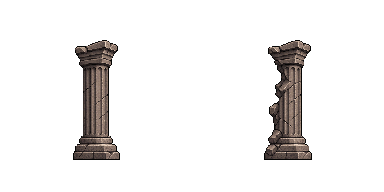
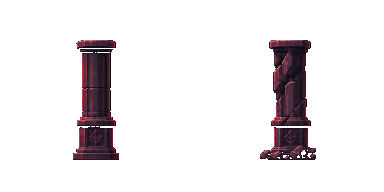
feat: integrate Arakus throne room presentation (PR #19 required)

Changed region(s): [[0.6562, 0.1875, 0.8438, 0.8438], [0.1875, 0.1875, 0.3125, 0.8438]]

diff --git a/Tests/verify-arakus-room-integration.py b/Tests/verify-arakus-room-integration.py
@@ -1,0 +1,54 @@
+"""Offline asset/contracts checks. Does not launch Unity, load DB config, or touch saves."""
+from pathlib import Path
+from PIL import Image,ImageChops,ImageFilter
+import subprocess,json,hashlib,sys,importlib.util,argparse
+sys.dont_write_bytecode=True
+ROOT=Path(__file__).resolve().parents[1]
+p=argparse.ArgumentParser();p.add_argument('--output',type=Path,required=True);args=p.parse_args();args.output.mkdir(parents=True,exist_ok=True)
+ART=ROOT/'Assets/StreamingAssets/Art/ArakusRoom';RES=ROOT/'Assets/Resources/ArakusV1'
+checks=[]
+def check(name,value):
+ checks.append({'name':name,'pass':bool(value)})
+ if not value: print('FAIL',name)
+def original(path):return subprocess.check_output(['git','show','HEAD:'+path],cwd=ROOT)
+sheet=Image.open(RES/'Pillar.png').convert('RGBA');rim=Image.open(RES/'Pillar_Outline.png').convert('RGBA')
+check('sheet_384x192',sheet.size==(384,192));check('rim_dimensions',rim.size==sheet.size)
+check('original_pillar_meta_and_GUID_unchanged',(RES/'Pillar.png.meta').read_bytes()==original('Assets/Resources/ArakusV1/Pillar.png.meta'))
+for i in range(2):
+ a=sheet.crop((192*i,0,192*(i+1),192)).getchannel('A');r=rim.crop((192*i,0,192*(i+1),192)).getchannel('A')
+ check(f'frame_{i}_foot_baseline',a.getbbox()[3]==160)
+ check(f'frame_{i}_height',a.getbbox()[3]-a.getbbox()[1]==120)
+ check(f'frame_{i}_one_pixel_outer_rim',r.tobytes()==ImageChops.subtract(a.filter(ImageFilter.MaxFilter(3)),a).tobytes())
+for f in ['WorldArtist.cs','ArakusVisuals.cs']:check(f+'_meta_unchanged',(ROOT/'Assets/Scripts'/f'{f}.meta').read_bytes()==original('Assets/Scripts/'+f+'.meta'))
+protected=['Assets/Scripts/BossPatternSystem.cs','Assets/Scripts/TowerGame.cs','Assets/Scripts/BossCombat.cs','Assets/Scripts/GameData.cs','Assets/Scripts/GameServices.cs','Assets/Scripts/SaveStore.cs','Assets/Scripts/CloudSync.cs','Assets/Scripts/ActorView.cs','Assets/Scripts/ScenePresentation.cs','Assets/Scenes','Assets/Prefabs','Assets/Data','ProjectSettings','Assets/StreamingAssets/Art/Castle']
+check('combat_DDA_DB_input_camera_scene_prefab_settings_unchanged',subprocess.run(['git','diff','--quiet','HEAD','--',*protected],cwd=ROOT).returncode==0)
+world=(ROOT/'Assets/Scripts/WorldArtist.cs').read_text();visual=(ROOT/'Assets/Scripts/ArakusVisuals.cs').read_text()
+check('battle_result_only_gate','bool fight=g.mode==ScreenMode.Battle||g.mode==ScreenMode.Result;' in world and 'throneRoom=fight&&g.bossIndex==0&&DrawThroneRoom()' in world)
+check('legacy_world_has_fallback','if(!throneRoom)' in world and 'if(room==null)return false;' in world)
+check('fade_kept_both_sides',all('clock-pillar'+s+'At<.6f' in visual and '1-(clock-pillar'+s+'At)/.6f' in visual for s in ['Left','Right']))
+check('glow_charge_kind_only','g.current.kind==AttackKind.Dash' in visual)
+check('glow_behind_body','alpha*(charging?.55f:.25f)),-31)' in visual)
+bg=Image.open(ART/'Arakus_Throne_Background_Game.png').convert('RGBA');raw=Image.open(ART/'Arakus_Throne_Background_16x9.png').convert('RGBA')
+check('background_dimensions',raw.size==bg.size==(1248,702))
+# Only the two authored post rectangles may differ.
+difference=ImageChops.difference(raw.convert('RGB'),bg.convert('RGB'))
+for box in [(430,453,511,608),(791,453,870,608)]:difference.paste((0,0,0),box)
+check('background_edits_confined_to_baked_posts',difference.getbbox() is None)
+# Offline camera projection, explicitly not Unity rendering or a shader simulation.
+spec=importlib.util.spec_from_file_location('roomart',ROOT/'Docs/Art/ArakusRoomConcept/create_assets.py');helper=importlib.util.module_from_spec(spec);spec.loader.exec_module(helper)
+for width,height in [(640,360),(480,360),(840,360)]:
+ aspect=width/height;ortho=max(8.2,14.3/aspect);ppu=height/(2*ortho);vw=2*ortho*aspect
+ check(f'{width}x{height}_whole_room_width_visible',vw>=26.5)
+ check(f'{width}x{height}_whole_room_top_visible',608*26.5/1248<=5+ortho)
+ im=Image.new('RGBA',(width,height),(9,13,19,255));world=lambda x,y:(width/2+x*ppu,height/2+(5-y)*ppu)
+ def paste(image,x,y,ww,hh):
+  tile=image.resize((round(ww*ppu),round(hh*ppu)),Image.Resampling.NEAREST);cx,cy=world(x,y);im.alpha_composite(tile,(round(cx-tile.width/2),round(cy-tile.height/2)))
+ unit=26.5/1248;bottom=(608-702)*unit;strip=raw.crop((0,640,1248,702))
+ paste(bg,0,(608-351)*unit,26.5,702*unit)
+ for i in range(12):paste(strip,0,bottom-(i+.5)*62*unit,26.5,62*unit)
+ for x in [-4,4]:
+  size=round(192*ppu/40);fr=sheet.crop((0,0,192,192)).resize((size,size),Image.Resampling.NEAREST);px,py=world(x,0);im.alpha_composite(fr,(round(px-size/2),round(py-160*size/192)))
+ helper.actor(im,world,ppu,'player');helper.actor(im,world,ppu,'boss')
+ im.resize((width*2,height*2),Image.Resampling.NEAREST).save(args.output/f'offline_{width}x{height}.png')
+report={'passed':sum(c['pass'] for c in checks),'failed':sum(not c['pass'] for c in checks),'checks':checks,'not_verified':['Unity compilation/rendering','real combat visuals and HUD','Windows build'],'note':'Source/asset checks and offline previews only; no DB connection.'}
+(args.output/'resource-checks.json').write_text(json.dumps(report,indent=2));print(report['passed'],'PASS',report['failed'],'FAIL');sys.exit(bool(report['failed']))

diff --git a/Assets/Scripts/WorldArtist.cs b/Assets/Scripts/WorldArtist.cs
@@ -58,6 +58,10 @@ namespace ReversalTower
 #endif
             cursor=0;bool fight=g.mode==ScreenMode.Battle||g.mode==ScreenMode.Result;float time=g.realClock;
             Rect(0,5,70,40,Palette.Ink);
+            Color accent=g.bossIndex==4?Palette.Purple:g.bossIndex==1?Palette.Teal:Palette.Gold;
+            bool throneRoom=fight&&g.bossIndex==0&&DrawThroneRoom();
+            if(!throneRoom)
+            {
             Disc(4,7.5f,19,19,new Color(.055f,.09f,.125f));Disc(4,7.5f,14,14,new Color(.075f,.12f,.15f));
             // Repeated arches, a broken celestial dial, and a deep lower vault.
             for(int i=-3;i<=3;i++)
@@ -72,7 +76,6 @@ namespace ReversalTower
             var pillars=ExternalAssets.Picture("Art/Castle/parallaxBG-interior2.png");
             if(pillars!=null)for(int i=-1;i<=1;i++)Shape(pillars,i*11.2f,6.7f,11.2f,14,new Color(.65f,.7f,.8f,.75f));
             if(castle!=null)for(int i=-1;i<=1;i++)Shape(castle,i*14,7,14,14,new Color(.8f,.85f,.95f,.75f));
-            Color accent=g.bossIndex==4?Palette.Purple:g.bossIndex==1?Palette.Teal:Palette.Gold;
             for(int i=0;i<48;i++)
             {
                 float a=i*Mathf.PI*2/48,rad=3.3f;
@@ -88,6 +91,7 @@ namespace ReversalTower
             for(int i=-15;i<15;i++){Rect(i*1.1f,-.45f,.018f,.7f,new Color(.07f,.10f,.13f));Rect(i*1.7f,-.15f,.7f,.018f,Palette.Alpha(accent,.16f));}
             var floor=ExternalAssets.Picture("Art/Castle/twilight-tiles.png",0,240,48,16);
             if(floor!=null)for(int i=-5;i<=5;i++)Shape(floor,i*3,-.48f,3,1,Palette.White);
+            }
             if(fight)
             {
                 if(!spriteArakus){if(g.pillarLeft)Pillar(-4);if(g.pillarRight)Pillar(4);}
@@ -124,8 +128,23 @@ namespace ReversalTower
             }
             foreach(var m in g.motes)Rect(m.pos.x,m.pos.y,m.size,m.size,Palette.Alpha(m.color,Mathf.Clamp01(m.life*3)),time*300);
             // Low drifting foreground mist.
-            for(int i=0;i<6;i++)Disc(-15+i*6+Mathf.Sin(time*.07f+i)*2,-.6f,12,.55f,new Color(.12f,.22f,.25f,.12f));
+            if(!throneRoom)for(int i=0;i<6;i++)Disc(-15+i*6+Mathf.Sin(time*.07f+i)*2,-.6f,12,.55f,new Color(.12f,.22f,.25f,.12f));
             for(int i=cursor;i<pool.Count;i++)pool[i].gameObject.SetActive(false);
+        }
+        bool DrawThroneRoom()
+        {
+            const string path="Art/ArakusRoom/Arakus_Throne_Background_Game.png";
+            var room=ExternalAssets.Picture(path);if(room==null)return false;
+            // Keep the whole composition inside the existing minimum 28.6m camera width.
+            // Authored walk line is source row 608. Camera and all gameplay coordinates stay unchanged.
+            const float width=26.5f,unit=width/1248f,groundRow=608f;
+            float centerY=(groundRow-351f)*unit,bottom=(groundRow-702f)*unit;
+            Shape(room,0,centerY,width,width,Color.white);
+            // Extend only the lower masonry for taller views; never stretch/crop the throne.
+            var lower=ExternalAssets.Picture(path,0,0,1248,62);
+            float stripHeight=62*unit;
+            for(int i=0;i<12;i++)Shape(lower,0,bottom-(i+.5f)*stripHeight,width,width,Color.white);
+            return true;
         }
         void Pillar(float x)
         {Rect(x,.85f,.65f,1.7f,Palette.Stone);Rect(x,1.75f,.9f,.18f,Palette.Slate);Rect(x,.15f,.9f,.3f,Palette.Slate);Rect(x-.18f,.95f,.07f,1.3f,Palette.Alpha(Palette.Gold,.5f));}

diff --git a/Assets/Scripts/ArakusVisuals.cs b/Assets/Scripts/ArakusVisuals.cs
@@ -99,6 +99,13 @@ namespace ReversalTower
             r.sortingLayerID=owner.body.sortingLayerID;r.sortingOrder=owner.body.sortingOrder+order;r.color=color??Color.white;
             r.transform.position=new Vector3(pos.x,pos.y,0);r.transform.localScale=new Vector3(face*(transform.localScale.x<0?-1:1),1,1);r.transform.localRotation=Quaternion.identity;
         }
+        void DrawPillar(TowerGame g,int frame,Vector2 pos,int face,ActorView owner,float alpha)
+        {
+            // Presentation only: muted red, no additive shader, bloom, blinking or hitbox changes.
+            bool charging=g.mode==ScreenMode.Battle&&g.current!=null&&g.current.kind==AttackKind.Dash;
+            Draw("Pillar_Outline",frame,pos,face,owner,new Color(.65f,.12f,.18f,alpha*(charging?.55f:.25f)),-31);
+            Draw("Pillar",frame,pos,face,owner,new Color(1,1,1,alpha),-30);
+        }
         void Loop(string id,Vector2 pos,int face,ActorView owner,int order=10)
         {Draw(id,ArakusAnimationSelection.NativeFrame(id,clock,true),pos,face,owner,null,order);}
         public void Render(TowerGame g,bool battle,ActorView owner)
@@ -106,10 +113,10 @@ namespace ReversalTower
             cursor=0;
             if(battle)
             {
-                if(g.pillarLeft)Draw("Pillar",0,new Vector2(-4,0),1,owner,null,-30);
-                else if(clock-pillarLeftAt<.6f)Draw("Pillar",1,new Vector2(-4,0),leftImpactFace,owner,new Color(1,1,1,Mathf.Clamp01(1-(clock-pillarLeftAt)/.6f)),-30);
-                if(g.pillarRight)Draw("Pillar",0,new Vector2(4,0),1,owner,null,-30);
-                else if(clock-pillarRightAt<.6f)Draw("Pillar",1,new Vector2(4,0),rightImpactFace,owner,new Color(1,1,1,Mathf.Clamp01(1-(clock-pillarRightAt)/.6f)),-30);
+                if(g.pillarLeft)DrawPillar(g,0,new Vector2(-4,0),1,owner,1);
+                else if(clock-pillarLeftAt<.6f)DrawPillar(g,1,new Vector2(-4,0),leftImpactFace,owner,Mathf.Clamp01(1-(clock-pillarLeftAt)/.6f));
+                if(g.pillarRight)DrawPillar(g,0,new Vector2(4,0),1,owner,1);
+                else if(clock-pillarRightAt<.6f)DrawPillar(g,1,new Vector2(4,0),rightImpactFace,owner,Mathf.Clamp01(1-(clock-pillarRightAt)/.6f));
                 foreach(var s in g.shots)if(s.returns)Draw("Shield_Spin",ArakusAnimationSelection.NativeFrame("Shield_Spin",clock,true),s.pos,1,owner,s.friendly?Palette.Teal:Color.white);
                 if(g.bossHp<=0&&!g.BossPatterns.shieldOut&&poseState=="Death")
                 {

diff --git a/Docs/Validation/ARAKUS_ROOM_LOCAL_INTEGRATION.md b/Docs/Validation/ARAKUS_ROOM_LOCAL_INTEGRATION.md
@@ -1,0 +1,97 @@
+# 아라쿠스 왕좌 배경·기둥 — Unity 통합 (PR #19 선행 필요)
+
+## 브랜치 의존 관계 — PR #19 선행 필요
+
+최신 main 기준의 일반 작업 규칙에 대한 승인된 예외다. 아트 전용 PR #19의
+`feat/arakus-room-art` 커밋 `e4626a8c4271a9fdea14cad45bdccf8e49bbdffa`에서
+`feat/arakus-room-integration`을 분기했다. PR Base는 우선 `feat/arakus-room-art`로 설정한다.
+PR #19의 원본/적용용 배경, 별도 기둥 시트, 외곽선 PNG와 .meta를 의존성으로 사용하며 중복 추가하지 않는다.
+기존 아트 브랜치 작업 트리의 미커밋 통합 파일은 삭제/초기화하지 않고 보존했다.
+별도 worktree에서 승인된 다섯 파일만 복사·검증했다. main과 PR #13~#18은 가져오거나 수정하지 않았다.
+
+이 변경은 Draft 검토 대상이며 PM이 병합한다. AI는 병합하지 않는다.
+
+### PM 병합 순서
+
+1. 아트 전용 PR #19를 확인하고 main에 먼저 병합한다.
+2. 통합 브랜치에서 최신 main을 반영하고 본 문서의 검사와 Unity 검증을 다시 수행한다.
+   PR #19를 squash 병합했다면 Base만 변경할 때 아트 변경이 중복 표시될 수 있다.
+   통합 브랜치에 최신 main을 일반 merge하는 등의 방법으로 공통 이력을 정리한 뒤 diff를 확인한다.
+   충돌은 PM/담당자가 의도를 확인하며, 강제 Push나 무조건 덮어쓰기는 하지 않는다.
+3. PR Base를 main으로 바꾸고 변경 파일이 통합 코드2개·기둥 교체1개·테스트1개·문서1개인지 확인한다.
+   그 사이 승인된 추가 검증 수정이 생기면 최종 목록을 다시 확인한다.
+4. 아래 Unity6000.4.0f1 및 Windows 검증을 마친 후 PM이 Draft 해제/병합 여부를 결정한다.
+
+## 이번 재검증
+
+별도 격리 디렉터리에서 현재 소스로 기존 Headless 테스트를 다시 컴파일·실행해119개 통과.
+리소스/보존 검사25개 통과, 변경 C#2개 Roslyn 문법 오류0개. git diff --check 통과.
+새로운 Unity 컴파일·실행/Windows 빌드를 수행한 것은 아니다.
+
+
+## 원본 및 적용본
+
+ZIP `Arakus_Original_PNGs_For_Codex.zip`의 PNG를 직접 읽었다.
+- 배경: 1248×702 RGB. 전달 원본은 StreamingAssets/Art/ArakusRoom/Arakus_Throne_Background_16x9.png에 그대로 보존.
+- 기둥: 384×192 RGBA. 전달 시트를 Resources/ArakusV1/Pillar.png에 바이트 그대로 적용.
+- 기존 Pillar.png.meta 전체 바이트 보존: GUID, Sprite ID, PPU56, Pivot(0.5,32/192), 두 프레임 이름/영역 동일.
+- 새 정상/균열 불투명 높이 모두 120px, 마지막 불투명 행 159. 기존 루트1.4에서 표시 높이3m.
+
+원본 배경의 전면 작은 기둥을 그대로 두면 실제 기둥이 사라진 뒤에도 남는다.
+별도 Arakus_Throne_Background_Game.png에서 해당 두 직사각형만 주변 계단의 같은 행 픽셀로 이어 붙였다.
+수정 범위: (430,453)-(511,608), (791,453)-(870,608), 오른쪽/아래 배타 좌표.
+제작 시 사용한 원본의 같은 행 소스 x는 각각512,688이다. 크기와 나머지 영역은 그대로 보존.
+블러·생성형 보간 없음. 붙인 계단의 질감 연결은 실제 Unity 화면에서도 미술 검토가 필요하다.
+
+## 변경 코드
+
+WorldArtist.Render: bossIndex==0 및 Battle/Result일 때만 DrawThroneRoom.
+기존 절차 배경/Castle/바닥/안개는 해당 분기에서 제외. 새 파일이 없으면 기존 배경으로 복귀.
+전투 예고/플레이어/보스/투사체/피격/패링 렌더링은 기존 공유 경로 유지.
+
+배경 월드 폭26.5m, 비율 보존, 원본 y608을 바닥y0에 맞춘다. 아래 석재62px 스트립만 반복 연장.
+카메라 수식·위치·충돌 바닥은 변경하지 않았다. 일반16:9/4:3/21:9 구도를 보존하며 어두운 가장자리 여백이 생긴다.
+기존 패링 줌과 화면 흔들림 중 잠깐의 크롭은 실제 실행 확인 필요. 배경 자체를 화면비마다 왜곡하지 않는다.
+
+ArakusVisuals.DrawPillar: 기존 프레임/좌표/페이드 값을 전달받아 얇은 외곽선만 추가.
+Pillar_Outline.png는 각 프레임 알파의 3×3 최대 필터에서 원래 알파를 뺀 바깥1px 마스크.
+별도 새 Sprite 시트 .meta로 PPU/Pivot 계약을 맞췄으며 기존 기둥 GUID에는 영향 없음.
+기본 Sprite 재질과 어두운 붉은 색(.65,.12,.18)을 사용. 불투명도는 평소.25, Dash 패턴 중.55.
+가산 셰이더/Bloom/깜빡임/외부 패키지 없음. 외곽선은 본체보다 한 정렬 순서 뒤에 위치.
+충돌 후 균열 프레임과 외곽선 모두 기존0.6초 페이드에 동기화된다.
+
+BossPatternSystem, TowerGame, ActorView, DDA/LinUCB/Save/DB, Scene/Prefab/ProjectSettings 미수정.
+기존 x=-4,+4 통과 충돌, 3.2초 그로기, 새 전투 기둥 초기화 로직을 그대로 사용한다.
+두 번째 프레임은 균열 상태이며 완전 붕괴 애니메이션은 아니다. 무너짐/영구 잔해가 필요하면 추가 아트가 필요하다.
+
+## 실제 실행한 검증
+
+- 별도 /tmp/arakus-room-local-tests 복사본에서 현재 전투 소스를 HEADLESS로 컴파일/실행: 119 assertions PASS.
+  UnityShim 사용. CloudSync/실제 DB 설정을 복사하거나 실행하지 않음. 테스트 Save 경로도 /tmp 아래.
+- Roslyn C# 문법 검사: WorldArtist.cs/ArakusVisuals.cs, 0 오류. Unity API 타입 검사/컴파일을 뜻하지 않음.
+- Tests/verify-arakus-room-integration.py: 25 PASS / 0 FAIL.
+  원래 GUID/PPU/Pivot 메타, 발 정렬, 외곽 마스크, 보호 코드 무변경, 배경 수정 범위, 세 화면비 기본 시야 확인.
+- git diff --check PASS.
+
+```sh
+python3 Tests/verify-arakus-room-integration.py --output /workspace/artifacts/arakus-integration
+```
+
+결과/오프라인 목업: /workspace/artifacts/arakus-integration/
+- headless-tests.log
+- resource-checks.json
+- offline_640x360.png / offline_480x360.png / offline_840x360.png
+
+목업은 카메라 수식과 실제 스프라이트를 이용한 Pillow 합성으로, Unity 실행 캡처가 아니다.
+오프라인 목업은 실제 재질/외곽선/HUD/동적 VFX를 완전히 재현하지 않는다.
+
+## Unity에서 반드시 확인
+
+Unity6000.4.0f1 미설치로 Unity 컴파일/실플레이/Windows 빌드 미실행.
+1. Unity에서 오류 없이 임포트/컴파일되는지, Pillar_Outline이2개 Sprite로 읽히는지 확인.
+2. Title/Lobby/다른 보스 기존 화면, 아라쿠스 Battle/승리·사망 Result 새 화면 확인.
+3. 양쪽 x±4 기둥과 발/바닥 정렬, 돌진 중 외곽선 강화, 양방향 충돌의 균열 전환/0.6초 소멸/그로기 확인.
+4. 재전투에서 기둥 복구, 일시정지/Result에서 잔상 및 시간 처리 확인.
+5. 16:9/16:10/4:3/21:9, 패링 줌/화면 흔들림, 어두운 여백·계단 보정 경계 확인.
+6. 빨강 위험 예고와 파랑 패링·HUD 가독성 확인.
+7. Windows 빌드와 실행, StreamingAssets 파일 포함 확인.
